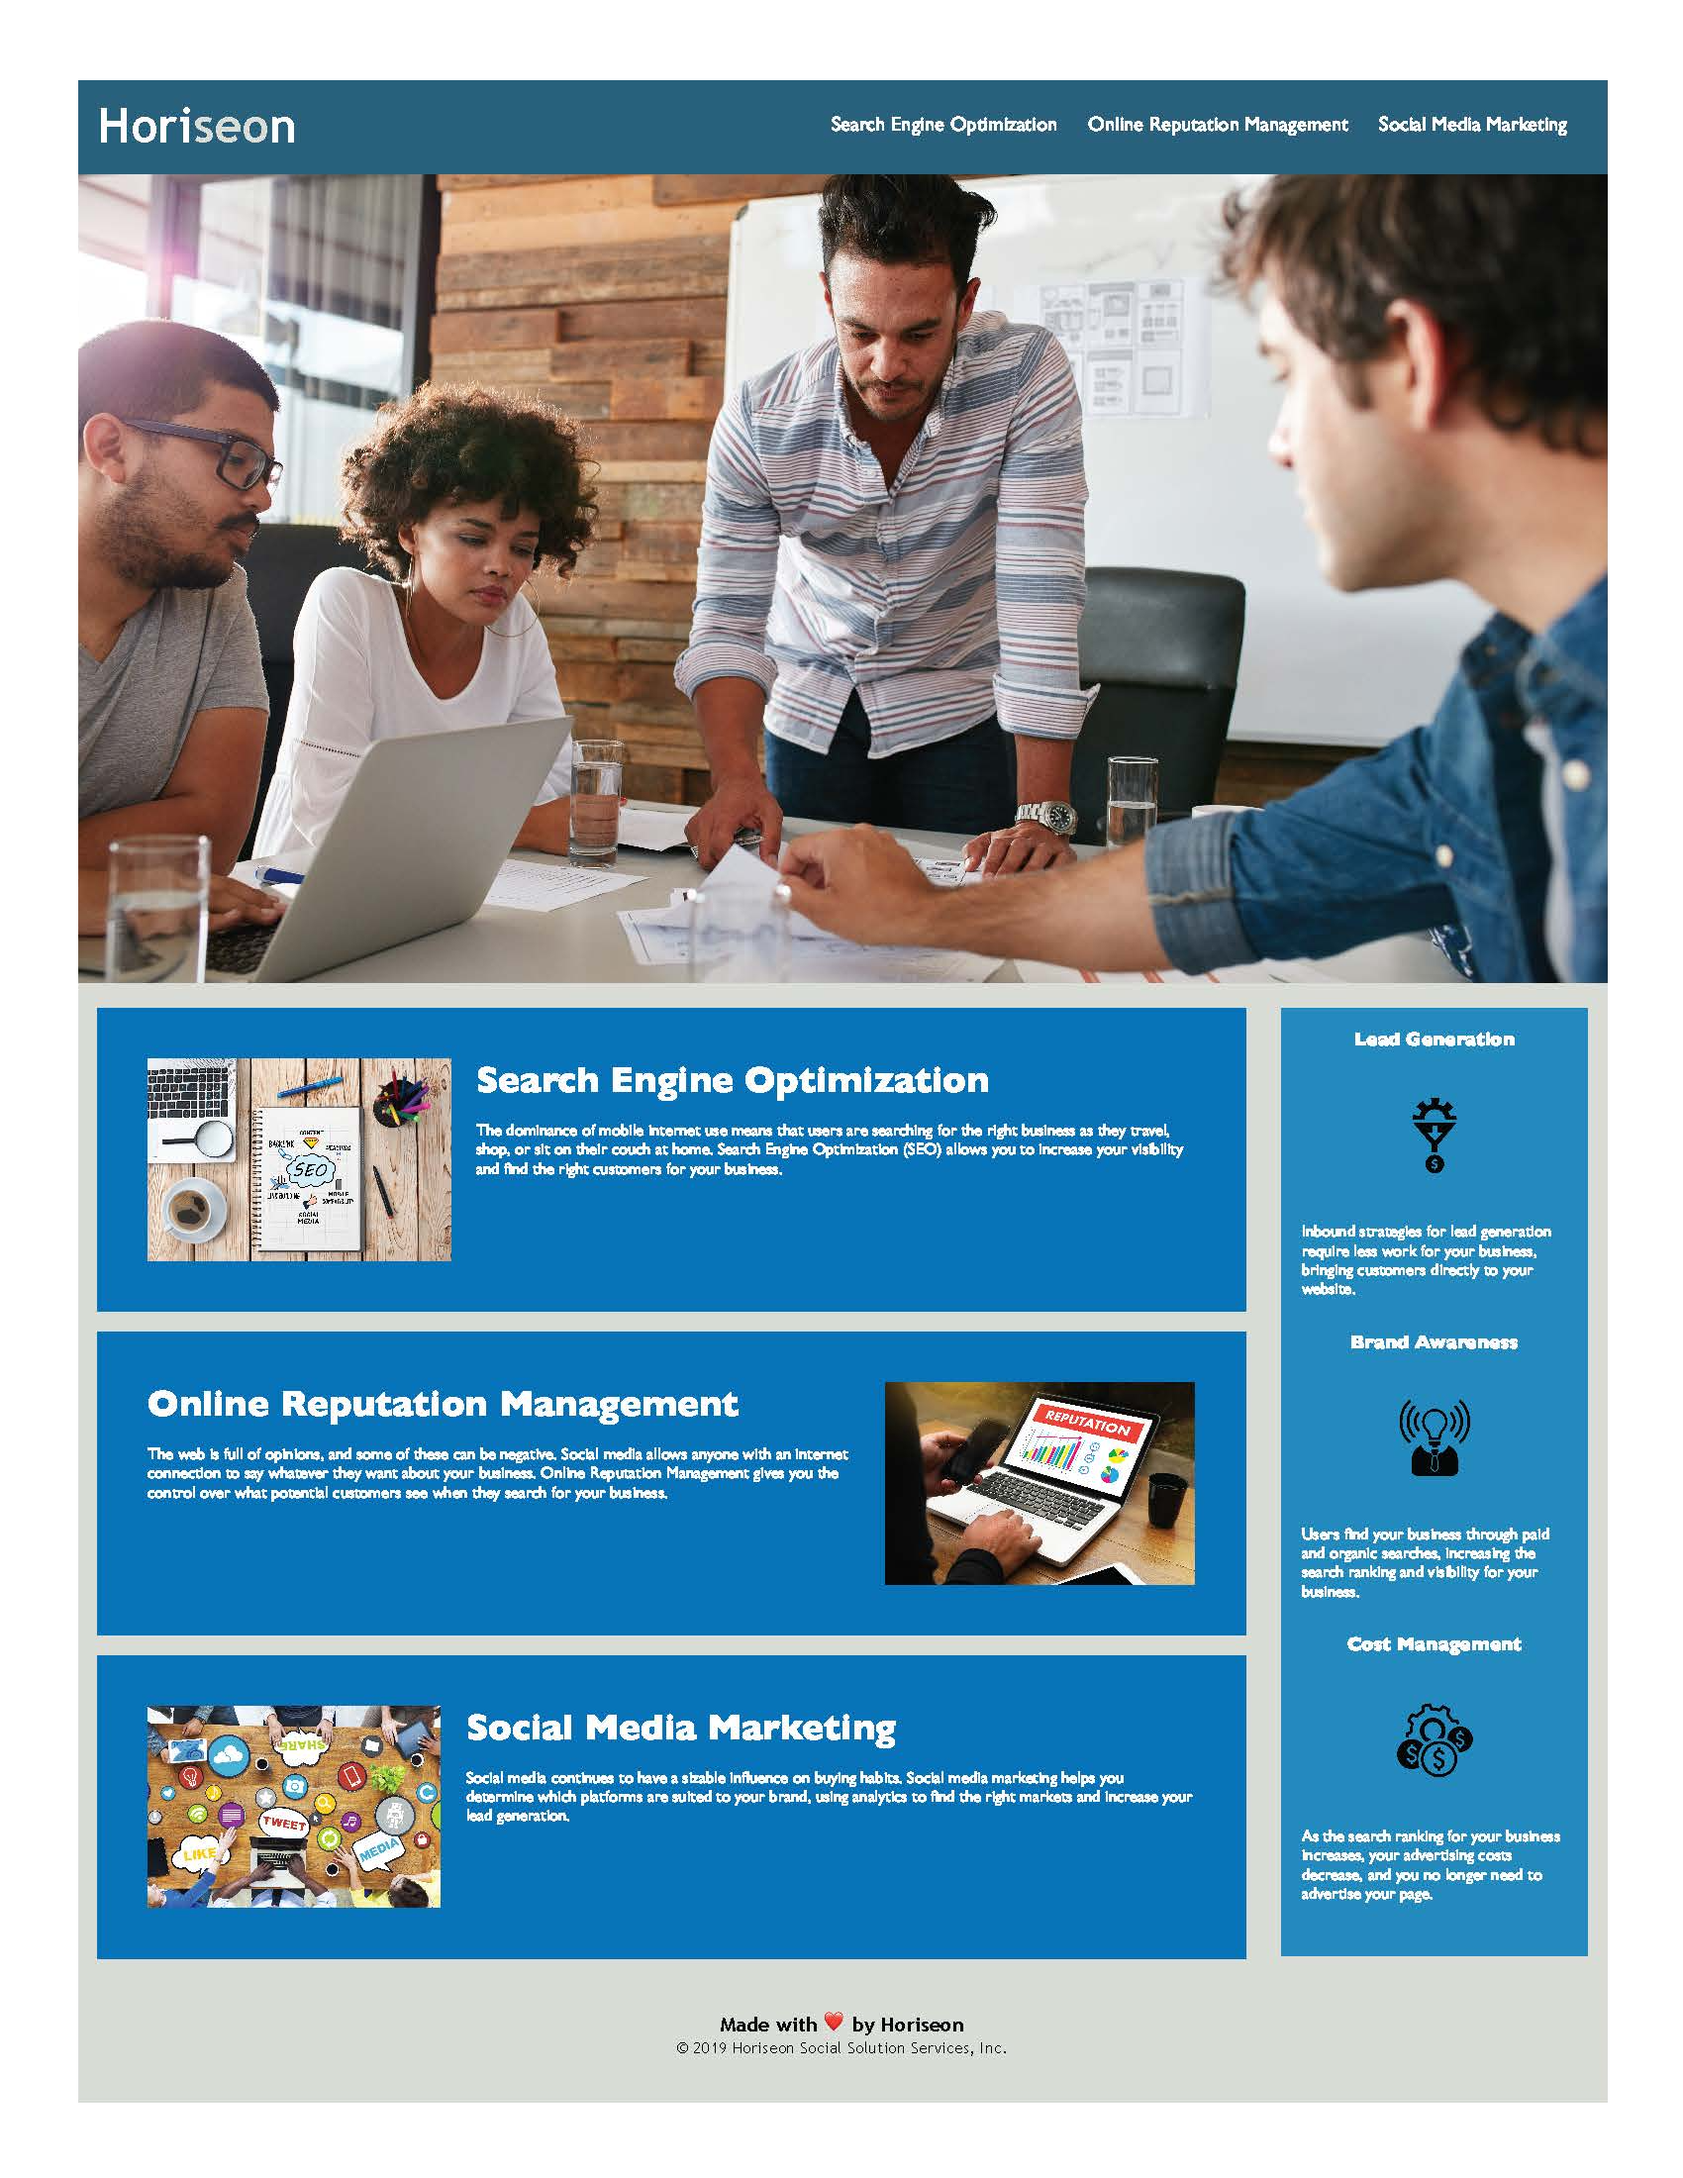
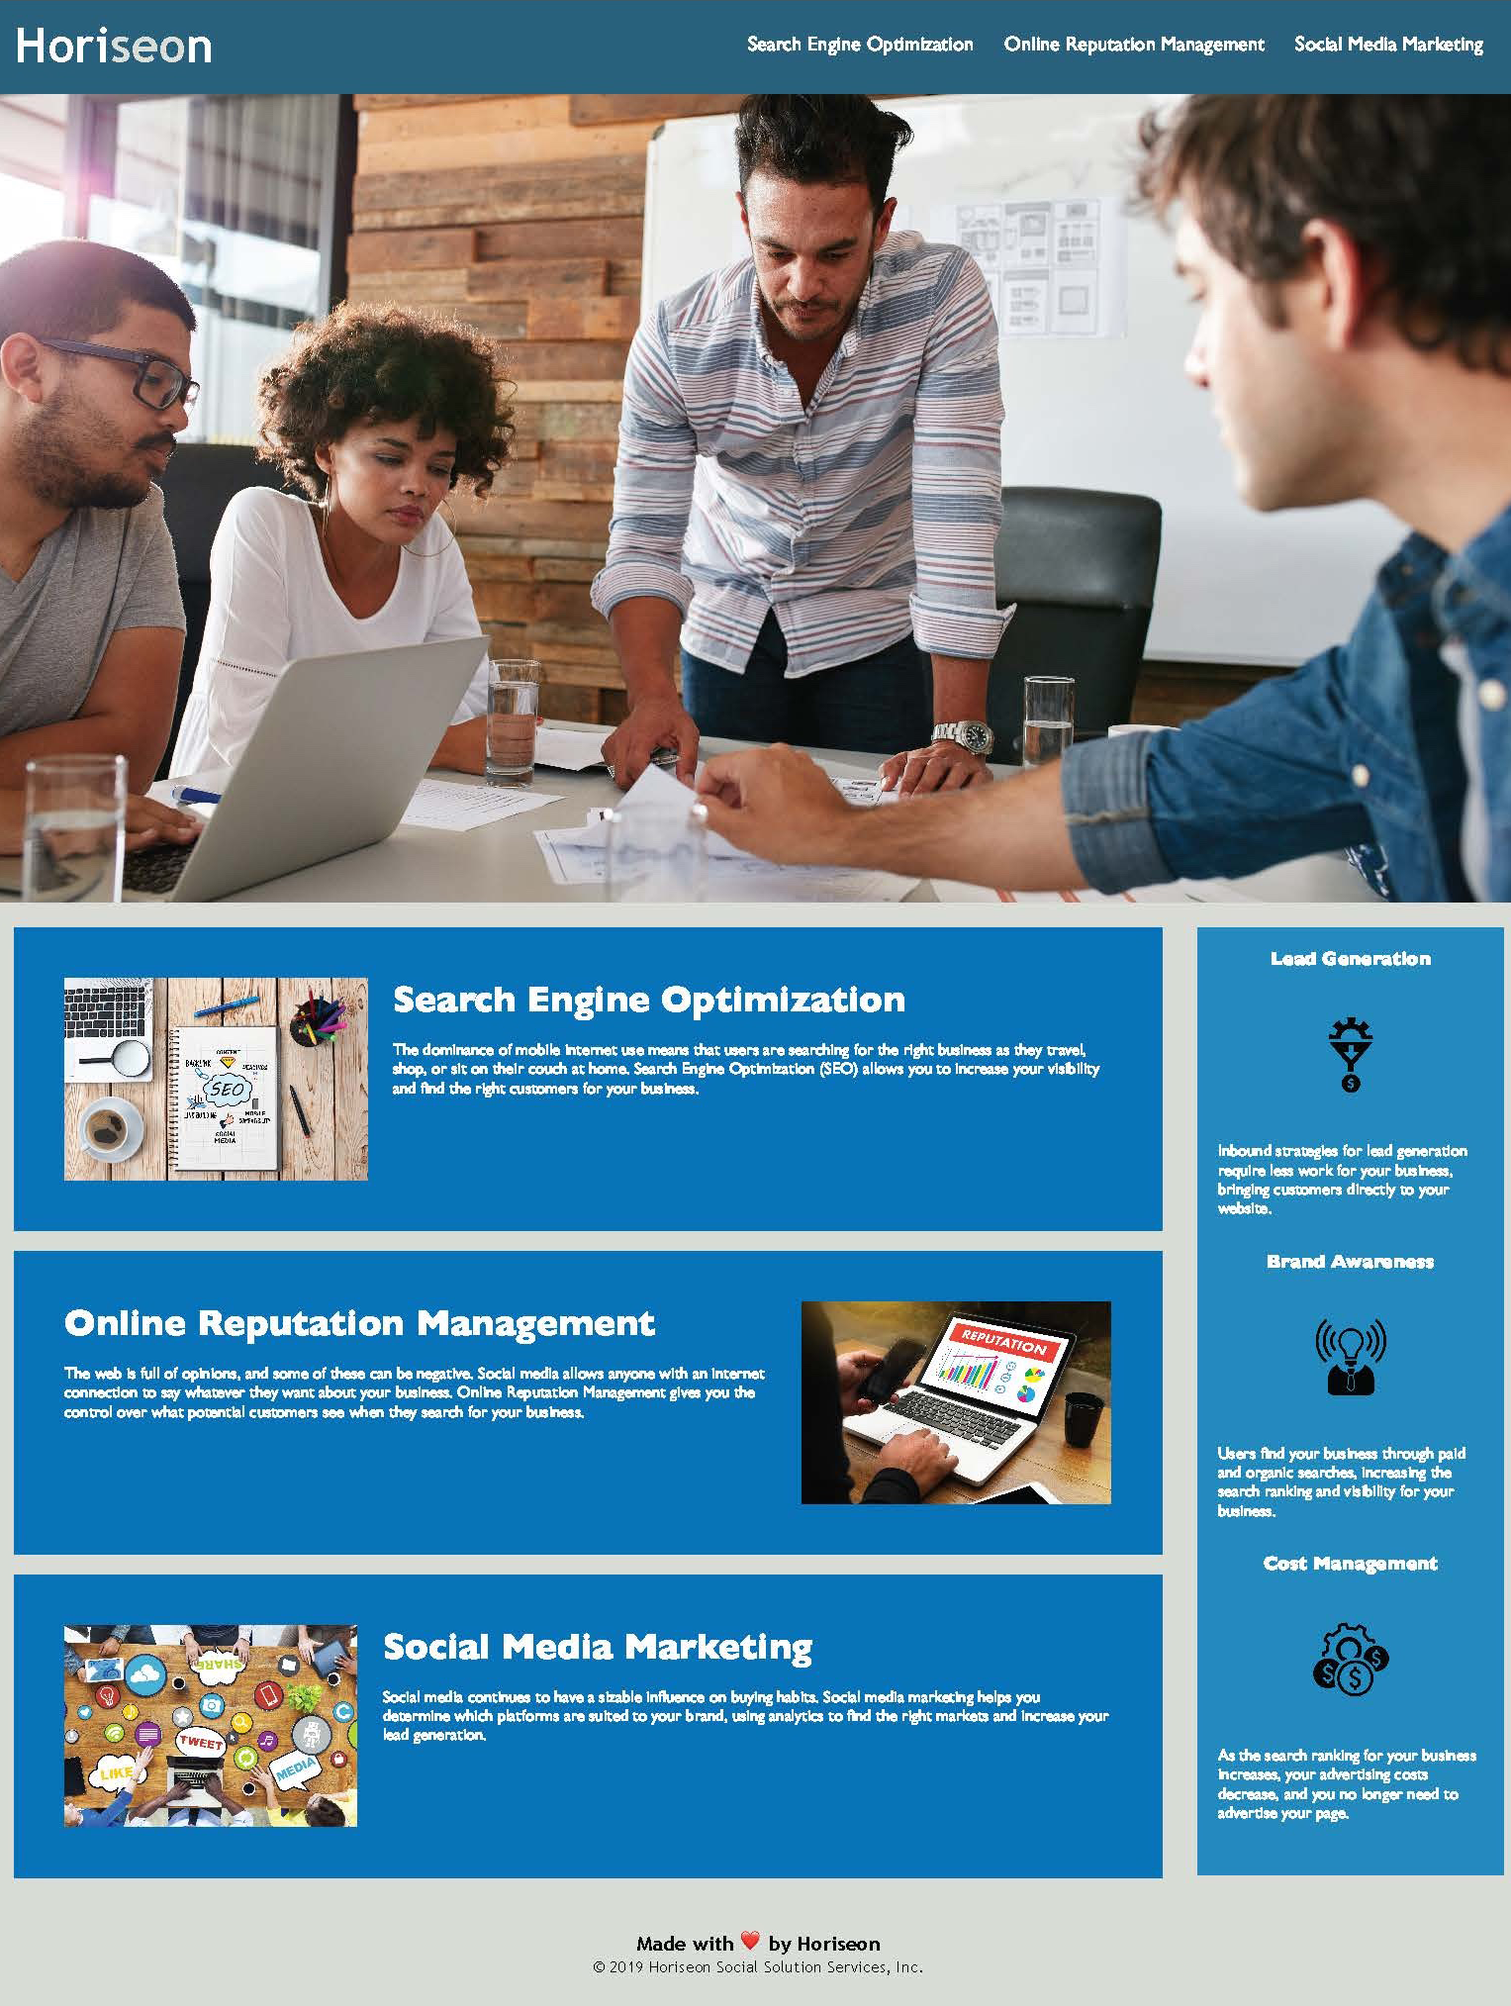
I altered the size of the title sidebar with a media query so that it doesn't take up too much space when at a larger pixel size. I completed the README document and assured that all code was clearly commented and all unnecessary lines of code were removed.

diff --git a/Assets/CSS/style.css b/Assets/CSS/style.css
@@ -78,6 +78,8 @@ header h1::after {
     border: solid 3px var(--primary);
     display: flex;
     margin-left: auto;
+    margin-right: auto;
+    margin-bottom: 2px;
     flex-shrink: 0;
 }
 
@@ -100,8 +102,7 @@ header h1::after {
 }
 
 .title {
-    min-width: 25%;
-    max-width: 25%;
+    min-width: 30%;
 }
 
 .container h2 {
@@ -151,14 +152,20 @@ header h1::after {
     border: 3px solid var(--primary);
 }
 
-.project-1 img, .project-2 img, .project-3 img, .spotlight img {
+.spotlight img {
+    height: 100%;
+    margin: 0;
+    padding: 0;
+    width: 100%;
+}
+.project-1 img, .project-2 img, .project-3 img {
     height: 100%;
     width: 100%;
 }
 .spotlight ul {
     position: relative;;
     display: flex;
-    bottom: 7%;
+    bottom: 5%;
  }
 
 .project-1 ul, .project-2 ul, .project-3 ul {
@@ -218,7 +225,17 @@ footer p {
 }
 
 @media screen and (max-width: 768px) {
-    .spotlight ul, .project-1 ul, .project-2 ul, .project-3 ul {
+    .spotlight ul{
+        bottom: 10%;
+    }
+     .project-1 ul, .project-2 ul, .project-3 ul {
         bottom: 15%;
+    }
+}
+
+@media screen and (min-width: 1000px) {
+
+    .title {
+        min-width: 15%;
     }
 }

diff --git a/index.html b/index.html
@@ -5,7 +5,7 @@
     <meta charset="UTF-8" />
     <link rel="stylesheet" href="./Assets/CSS/reset.css">
     <link rel="stylesheet" href="./Assets/CSS/style.css">
-    <link rel="icon" href="./Assets/Images/Clay's Creative Solutions Logo.png Creative Solutions Logo.png">
+    <link rel="icon" href="./Assets/Images/Clay's Creative Solutions Logo.png ">
     <title>Clayton McKee's Portfolio</title>
 </head>
 

diff --git a/README.md b/README.md
@@ -1,1 +1,14 @@
-# clayton-mckee-portfolio
+# Clayton McKee's Fullstack Developer Portfolio
+
+## Description
+
+This site was created in order to showcase my work as a web developer. It will continue to be added upon as I take on new projects and further develop my skills. The page supplies potential clients/employers about me, the type of projects in which I've been involved (including links to the projects), as well as ways to contact me or take a look at my Github page. The site itself also shows coding skills in HTML and CSS that are customized to fit my branding. 
+
+## Image of the Site
+
+<img src="./Assets/Images/site-screenshot.jpg">
+
+
+## Credits
+
+Thanks to Diarmuid Murphy for assistance with coding the hero banner and Matthew Calimbas troubleshooting help. 
